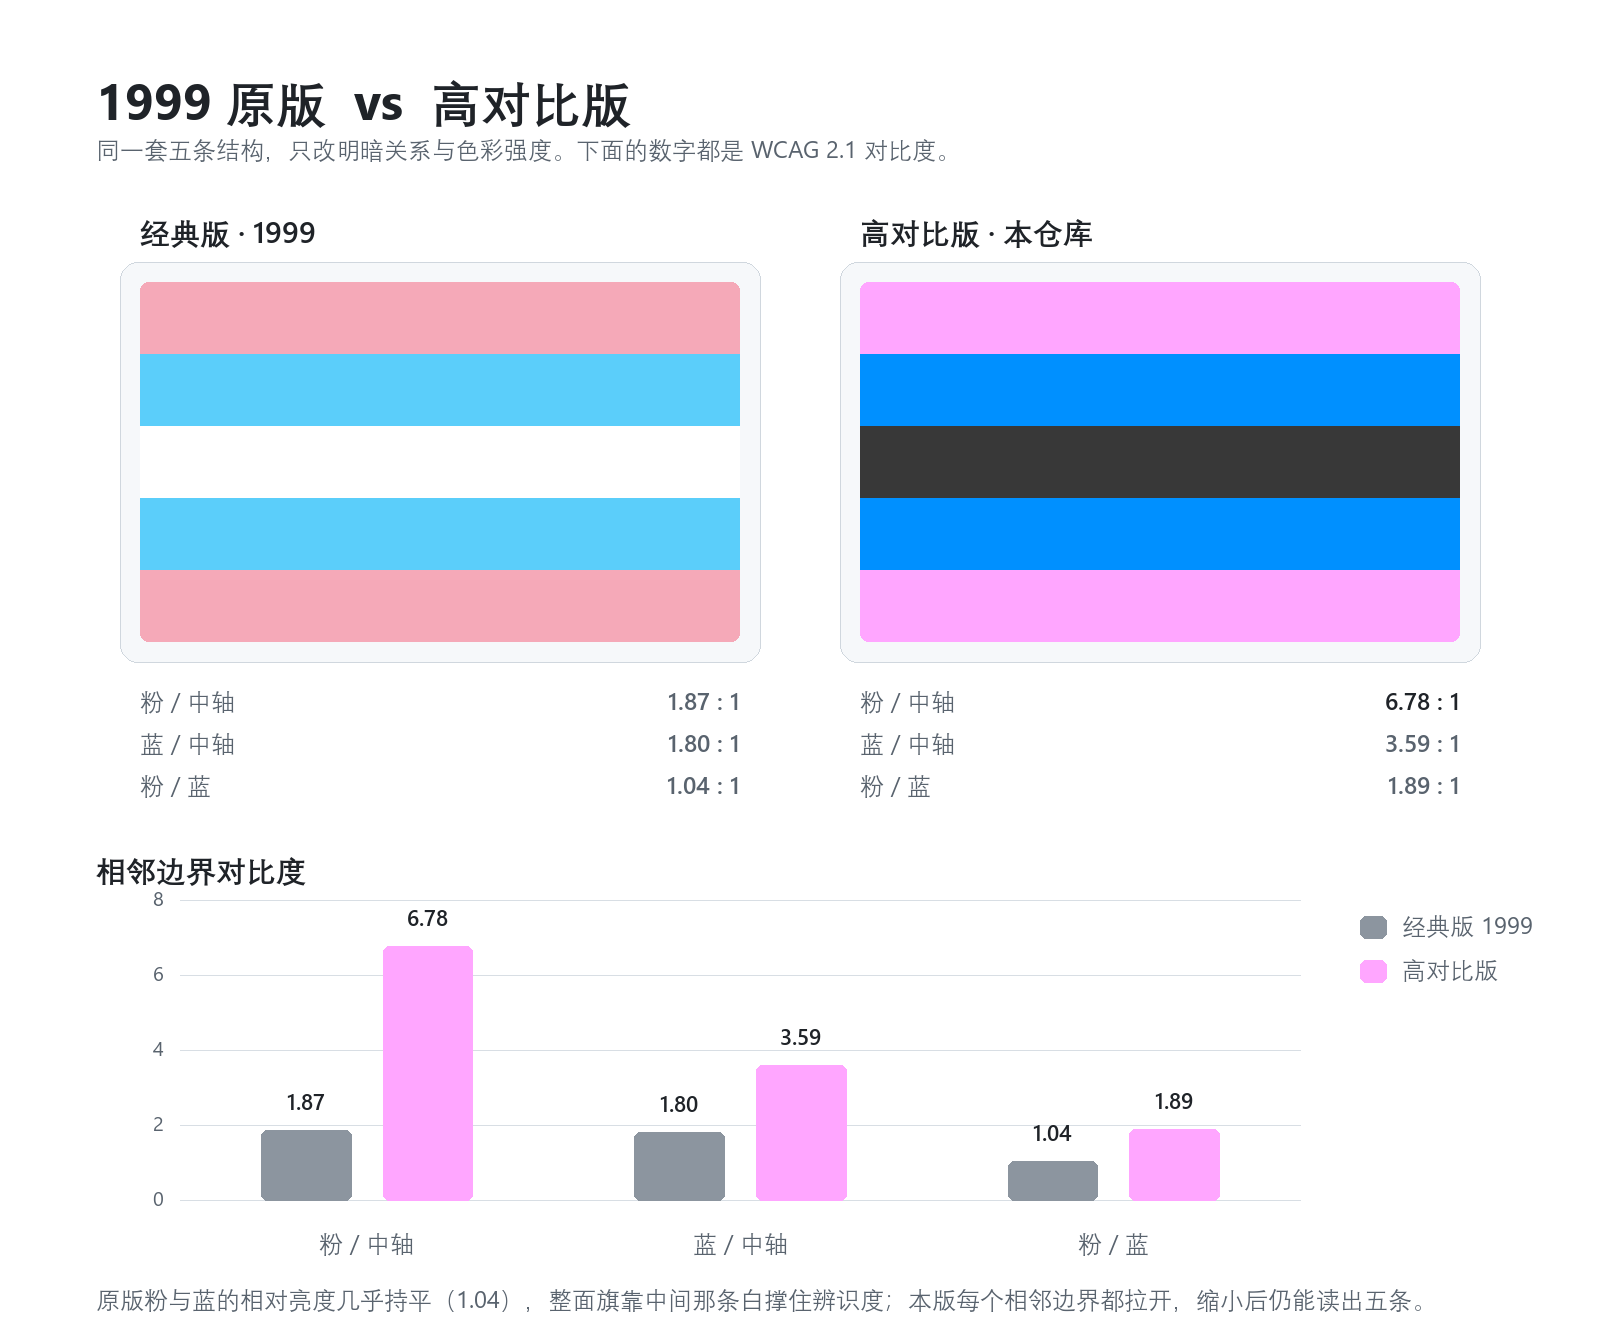
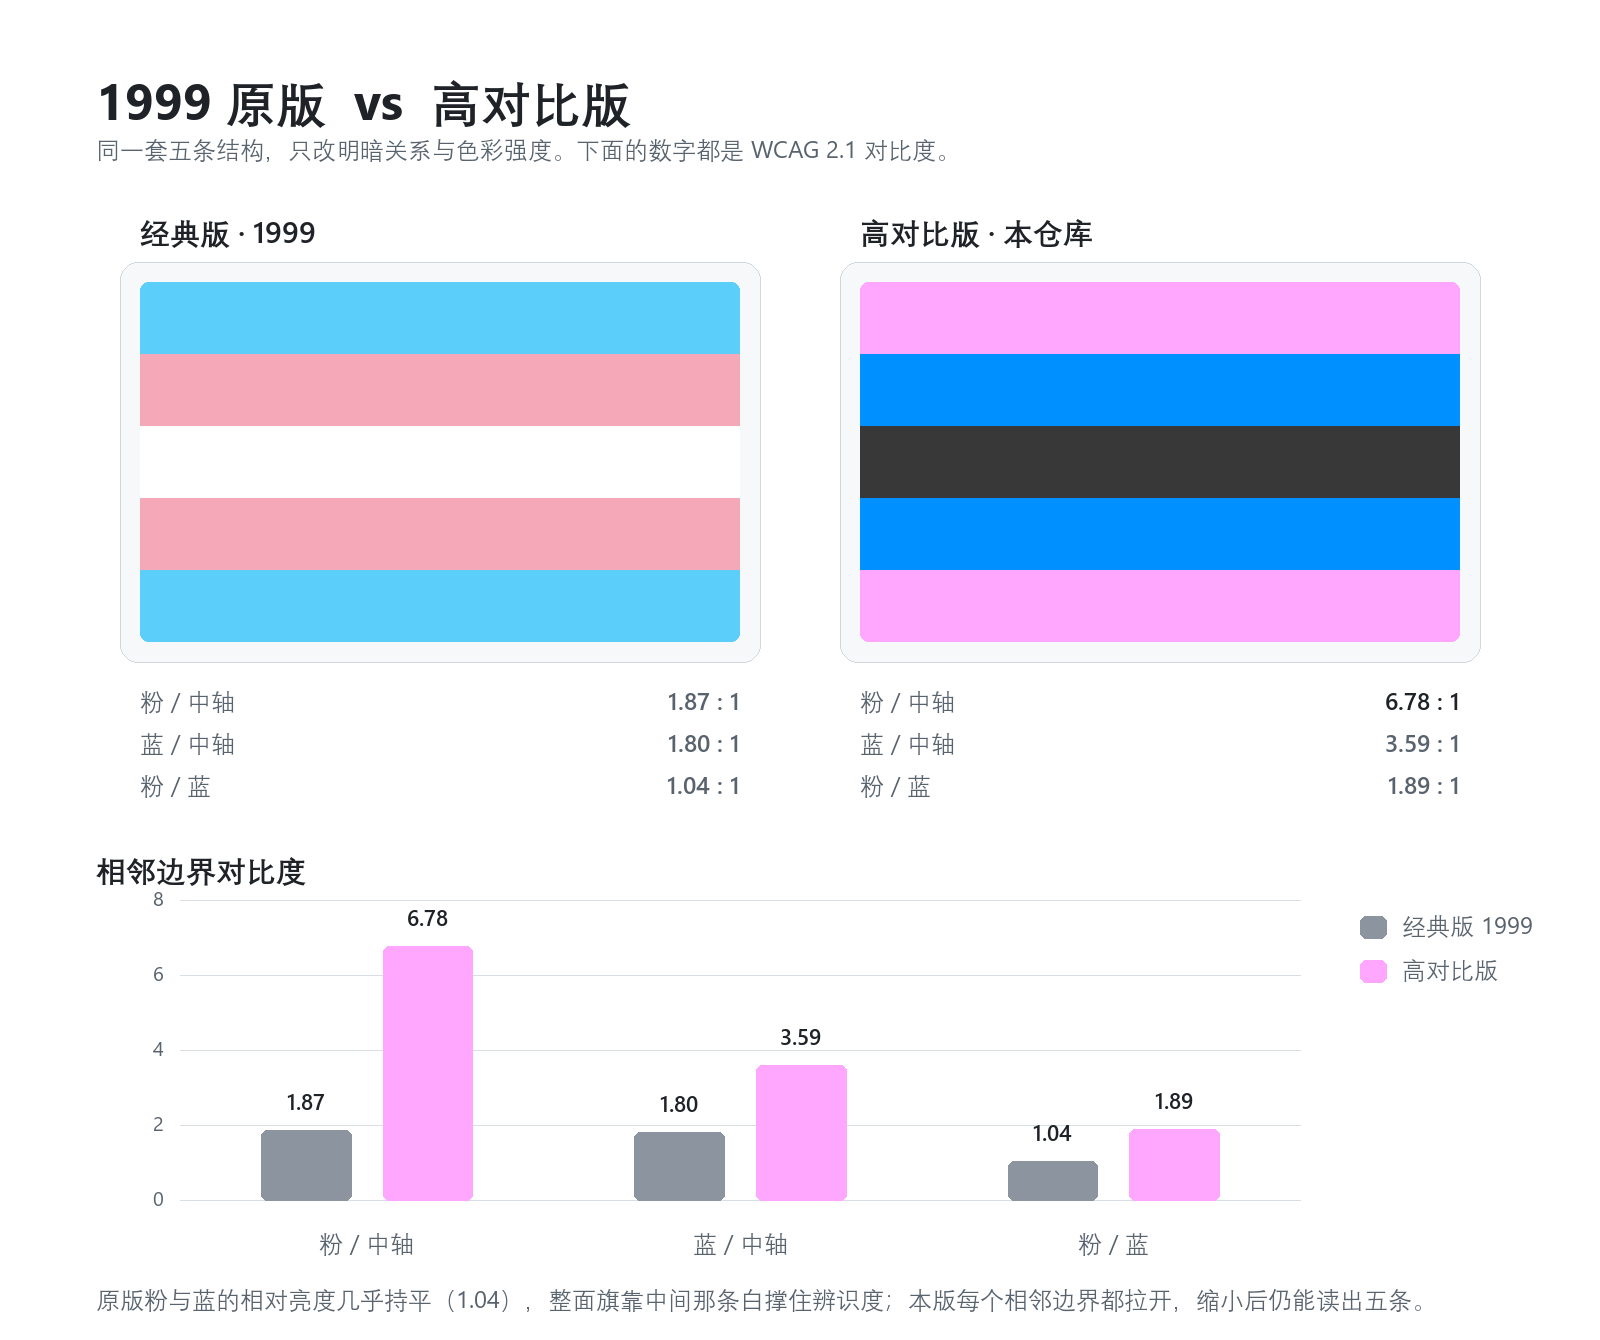
fix: 对比图把 1999 原版的条纹顺序画反了
1999 原版是「蓝—粉—白—粉—蓝」，蓝在外圈；本版才是粉在外圈。
但三张效果图都用了本版的条纹顺序去画原版，于是原版被画成了粉在外。

受影响：
  preview/02-compare.png / 02-compare-light.png（经典版一栏）
  preview/03-legibility.png（经典版那一行，全部尺寸）
  preview/07-dark-bg.png（最左那一栏）

修法：flagkit 新增 CLASSIC_BANDS = [blue, pink, axis, pink, blue]，
并把三处调用改为显式传入条纹顺序，不再依赖默认的 BANDS。
正式规格、成品文件、调色器「经典版 1999」预设本来就是对的，未受影响。

verify.py 增加像素级防线：在对比图中自上而下扫描原版那一列，
断言原版蓝必须先于原版粉出现。用修复前的图跑，该检查会报错并给出坐标，
即「粉 y=282 / 蓝 y=354」——正是肉眼发现的那个错误。

Changed region(s): [[0.0625, 0.1836, 0.4688, 0.3366], [0.0625, 0.3672, 0.4688, 0.4896]]

diff --git a/tools/build_previews.py b/tools/build_previews.py
@@ -213,13 +213,14 @@ def fig_compare(theme: str = "dark") -> None:
     T(d, 96, 132, "同一套五条结构，只改明暗关系与色彩强度。下面的数字都是 WCAG 2.1 对比度。",
       24, th["txt2"])
 
-    cols = [(140, "经典版 · 1999", fk.CLASSIC), (860, "高对比版 · 本仓库", fk.PALETTE)]
+    cols = [(140, "经典版 · 1999", fk.CLASSIC, fk.CLASSIC_BANDS),
+            (860, "高对比版 · 本仓库", fk.PALETTE, fk.BANDS)]
     fw, fh = 600, round(600 * 3 / 5)
-    for x, title, colors in cols:
+    for x, title, colors, bands in cols:
         T(d, x, 210, title, 30, th["txt"], "semibold")
         panel(img, (x - 20, 262, x + fw + 20, 262 + fh + 40), radius=18, fill=th["panel"],
               border=th["border"])
-        paste_flag(img, (x, 282, fw, fh), colors, radius=8, shadow=False)
+        paste_flag(img, (x, 282, fw, fh), colors, radius=8, shadow=False, bands=bands)
         d = ImageDraw.Draw(img)
         rows = [("粉 / 中轴", fk.contrast(colors["pink"], colors["axis"])),
                 ("蓝 / 中轴", fk.contrast(colors["blue"], colors["axis"])),
@@ -271,8 +272,8 @@ def legibility_strip(img, row_h, d, x, y, sizes, light: bool, label_w=230) -> No
     for s in sizes:
         ww = round(s * 5 / 3)
         T(d, cx + ww / 2, y - 34, f"{s}px", 20, fg2, "regular", align="c")
-        img.alpha_composite(fk.flag_exact(ww, s, fk.CLASSIC), (cx, y + row_h - s))
-        img.alpha_composite(fk.flag_exact(ww, s, fk.PALETTE), (cx, y2 + row_h - s))
+        img.alpha_composite(fk.flag_exact(ww, s, fk.CLASSIC, fk.CLASSIC_BANDS), (cx, y + row_h - s))
+        img.alpha_composite(fk.flag_exact(ww, s, fk.PALETTE, fk.BANDS), (cx, y2 + row_h - s))
         cx += ww + gap
 
 
@@ -496,17 +497,17 @@ def fig_darkbg() -> None:
       24, TXT2)
 
     cols = [
-        ("经典版 1999", fk.CLASSIC, "中轴是白的，边界 1.87:1", "#FFFFFF"),
-        ("高对比版 · 定稿", fk.PALETTE, "中轴 #383838  边界 1.61:1  ← 会被吃掉", "#FF7B72"),
-        ("亮轴变体 · 深色 UI 专用", DARKC, f"中轴 {DARK_AXIS}  边界 2.42:1", "#3FB950"),
+        ("经典版 1999", fk.CLASSIC, fk.CLASSIC_BANDS, "中轴是白的，边界 1.87:1", "#FFFFFF"),
+        ("高对比版 · 定稿", fk.PALETTE, fk.BANDS, "中轴 #383838  边界 1.61:1  ← 会被吃掉", "#FF7B72"),
+        ("亮轴变体 · 深色 UI 专用", DARKC, fk.BANDS, f"中轴 {DARK_AXIS}  边界 2.42:1", "#3FB950"),
     ]
     cw, ch = round(1200 * 3 / 5), 0
-    for i, (title, colors, note, tone) in enumerate(cols):
+    for i, (title, colors, bands, note, tone) in enumerate(cols):
         x = 80 + i * 424
         w = 360
         h = round(w * 3 / 5)
         panel(img, (x, 210, x + w, 210 + h + 150), radius=16, fill=fk.DARK_BG, border=BORDER)
-        paste_flag(img, (x, 210, w, h), colors, radius=0, shadow=False, bands=fk.BANDS)
+        paste_flag(img, (x, 210, w, h), colors, radius=0, shadow=False, bands=bands)
         d = ImageDraw.Draw(img)
         T(d, x + 20, 210 + h + 24, title, 24, TXT, "semibold")
         T(d, x + 20, 210 + h + 62, note, 21, tone)

diff --git a/tools/verify.py b/tools/verify.py
@@ -155,6 +155,23 @@ def main() -> int:
             check(col in got, f"{rel} 中找不到 {name} {col}")
         print(f"  ok    {rel}  含全部正式色值")
 
+    print("\n原版条纹顺序（对比图里 1999 版必须蓝在外圈）")
+    for rel in ("preview/02-compare.png", "preview/02-compare-light.png"):
+        im = Image.open(ROOT / rel).convert("RGB")
+        x = 440                      # 左列＝原版那一栏的水平中心
+        ys = {}
+        for name in ("blue", "pink"):
+            target = fk.CLASSIC[name]
+            ys[name] = next((y for y in range(im.height)
+                             if fk.rgb_to_hex(im.getpixel((x, y))) == target), None)
+        check(ys["blue"] is not None, f"{rel} 里找不到原版的蓝 {fk.CLASSIC['blue']}")
+        check(ys["pink"] is not None, f"{rel} 里找不到原版的粉 {fk.CLASSIC['pink']}")
+        if ys["blue"] is not None and ys["pink"] is not None:
+            check(ys["blue"] < ys["pink"],
+                  f"{rel} 把 1999 原版画反了：外圈应为蓝，实得粉在上"
+                  f"（blue y={ys['blue']} / pink y={ys['pink']}）")
+            print(f"  ok    {rel}  蓝在粉之上（y {ys['blue']} < {ys['pink']}），顺序正确")
+
     print("\n调色器网页默认值")
     page = (ROOT / "docs" / "index.html").read_text(encoding="utf-8")
     for name, col in CANON.items():

diff --git a/tools/flagkit.py b/tools/flagkit.py
@@ -33,6 +33,11 @@ PAPER_BG = "#F6F8FA"
 
 CLASSIC = {"pink": "#F5A9B8", "blue": "#5BCEFA", "axis": "#FFFFFF"}
 
+#: 1999 原版的条纹顺序是「蓝—粉—白—粉—蓝」，**蓝在外圈**。
+#: 本版才是把粉搬到外圈。画对比图时必须用这套顺序，
+#: 否则会把原版画反（2026-10-08 修过一次这个错）。
+CLASSIC_BANDS = ["blue", "pink", "axis", "pink", "blue"]
+
 
 def hex_to_rgb(h: str) -> tuple[int, int, int]:
     h = h.lstrip("#")
